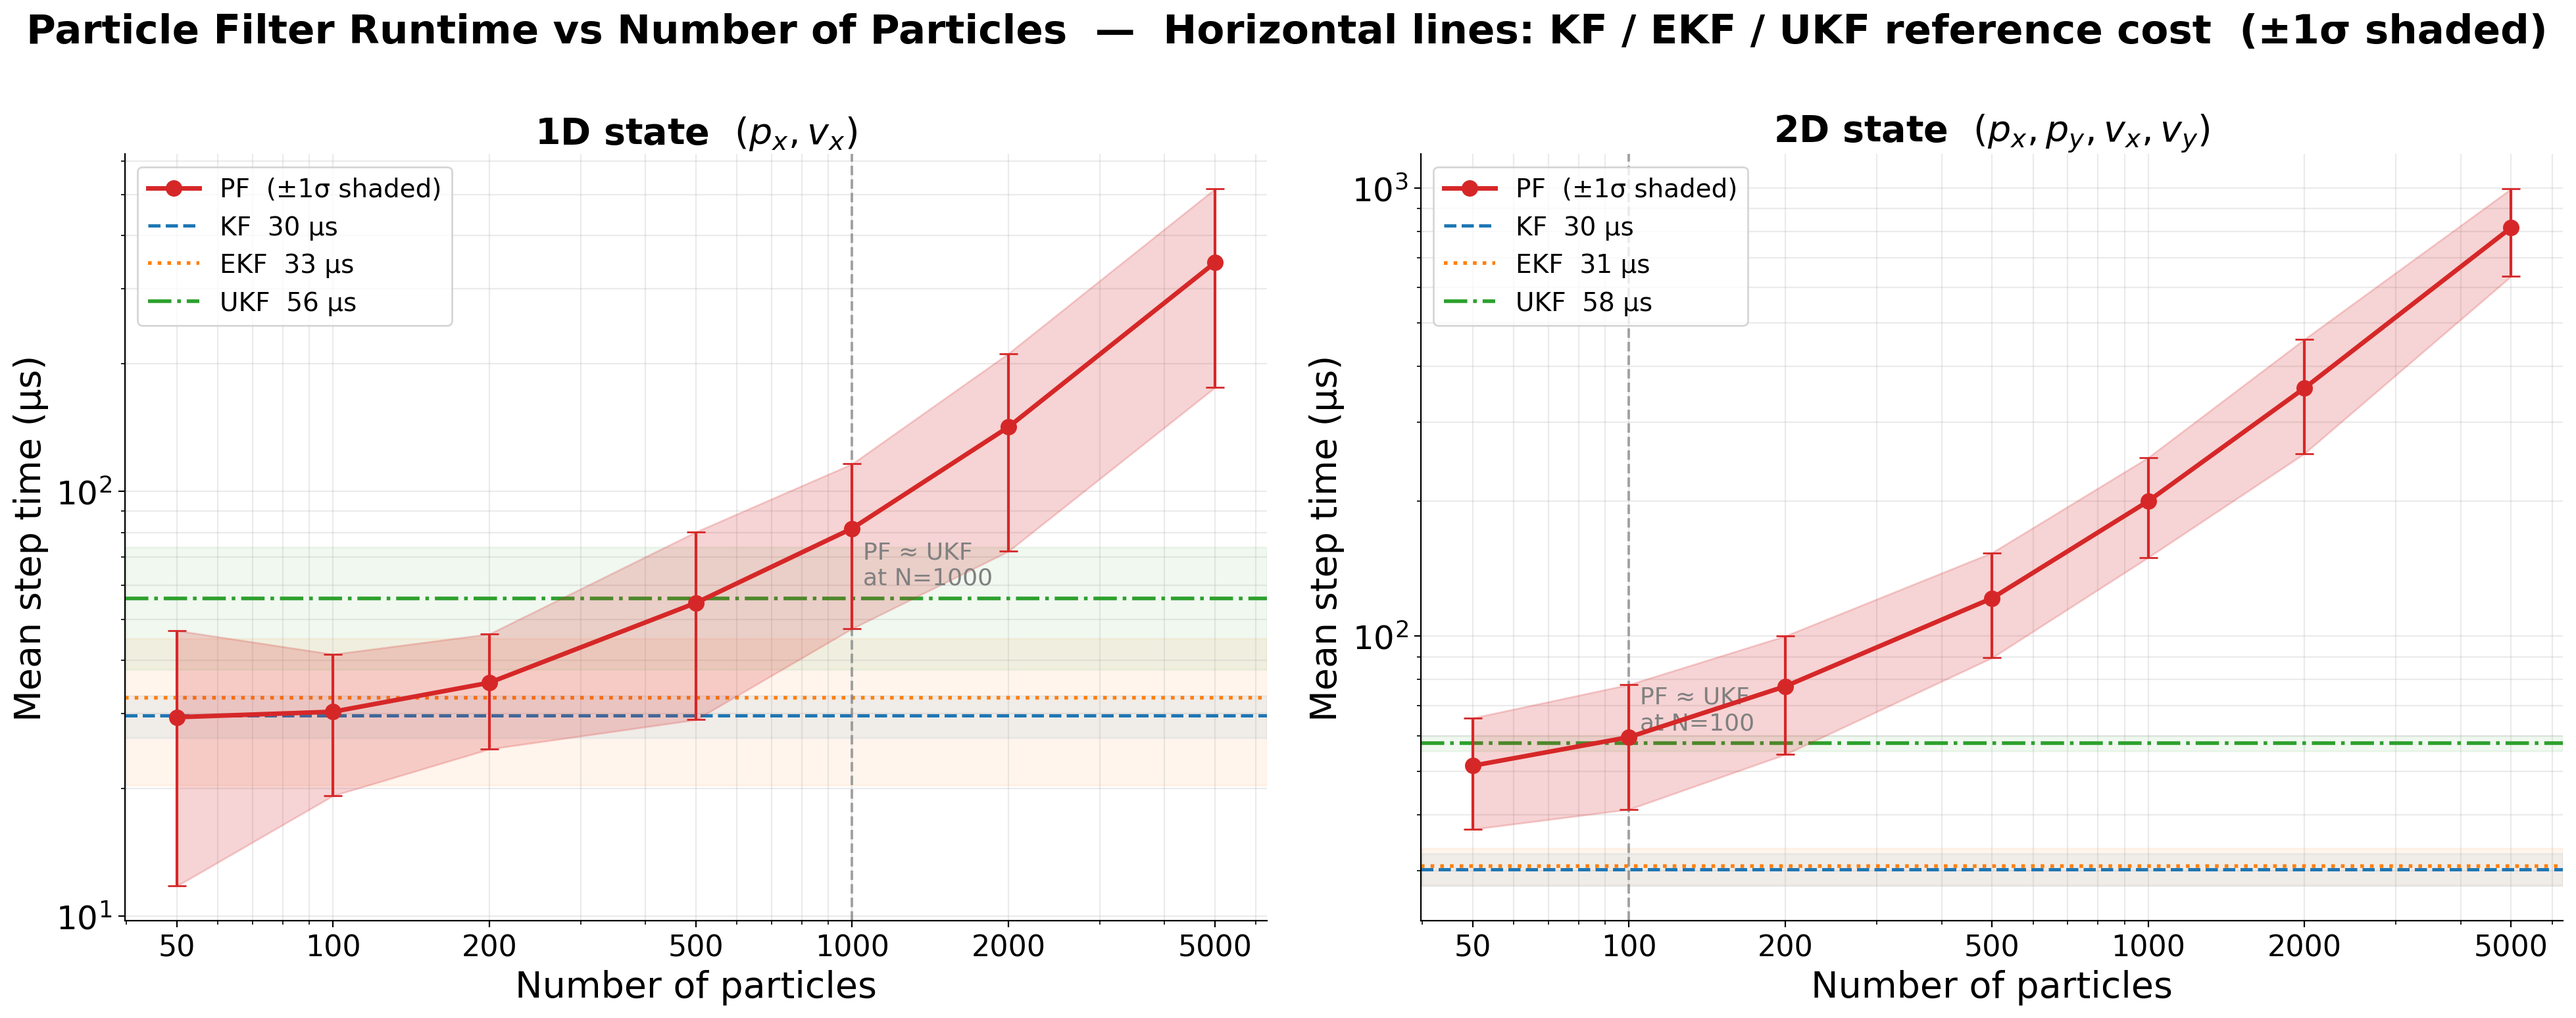
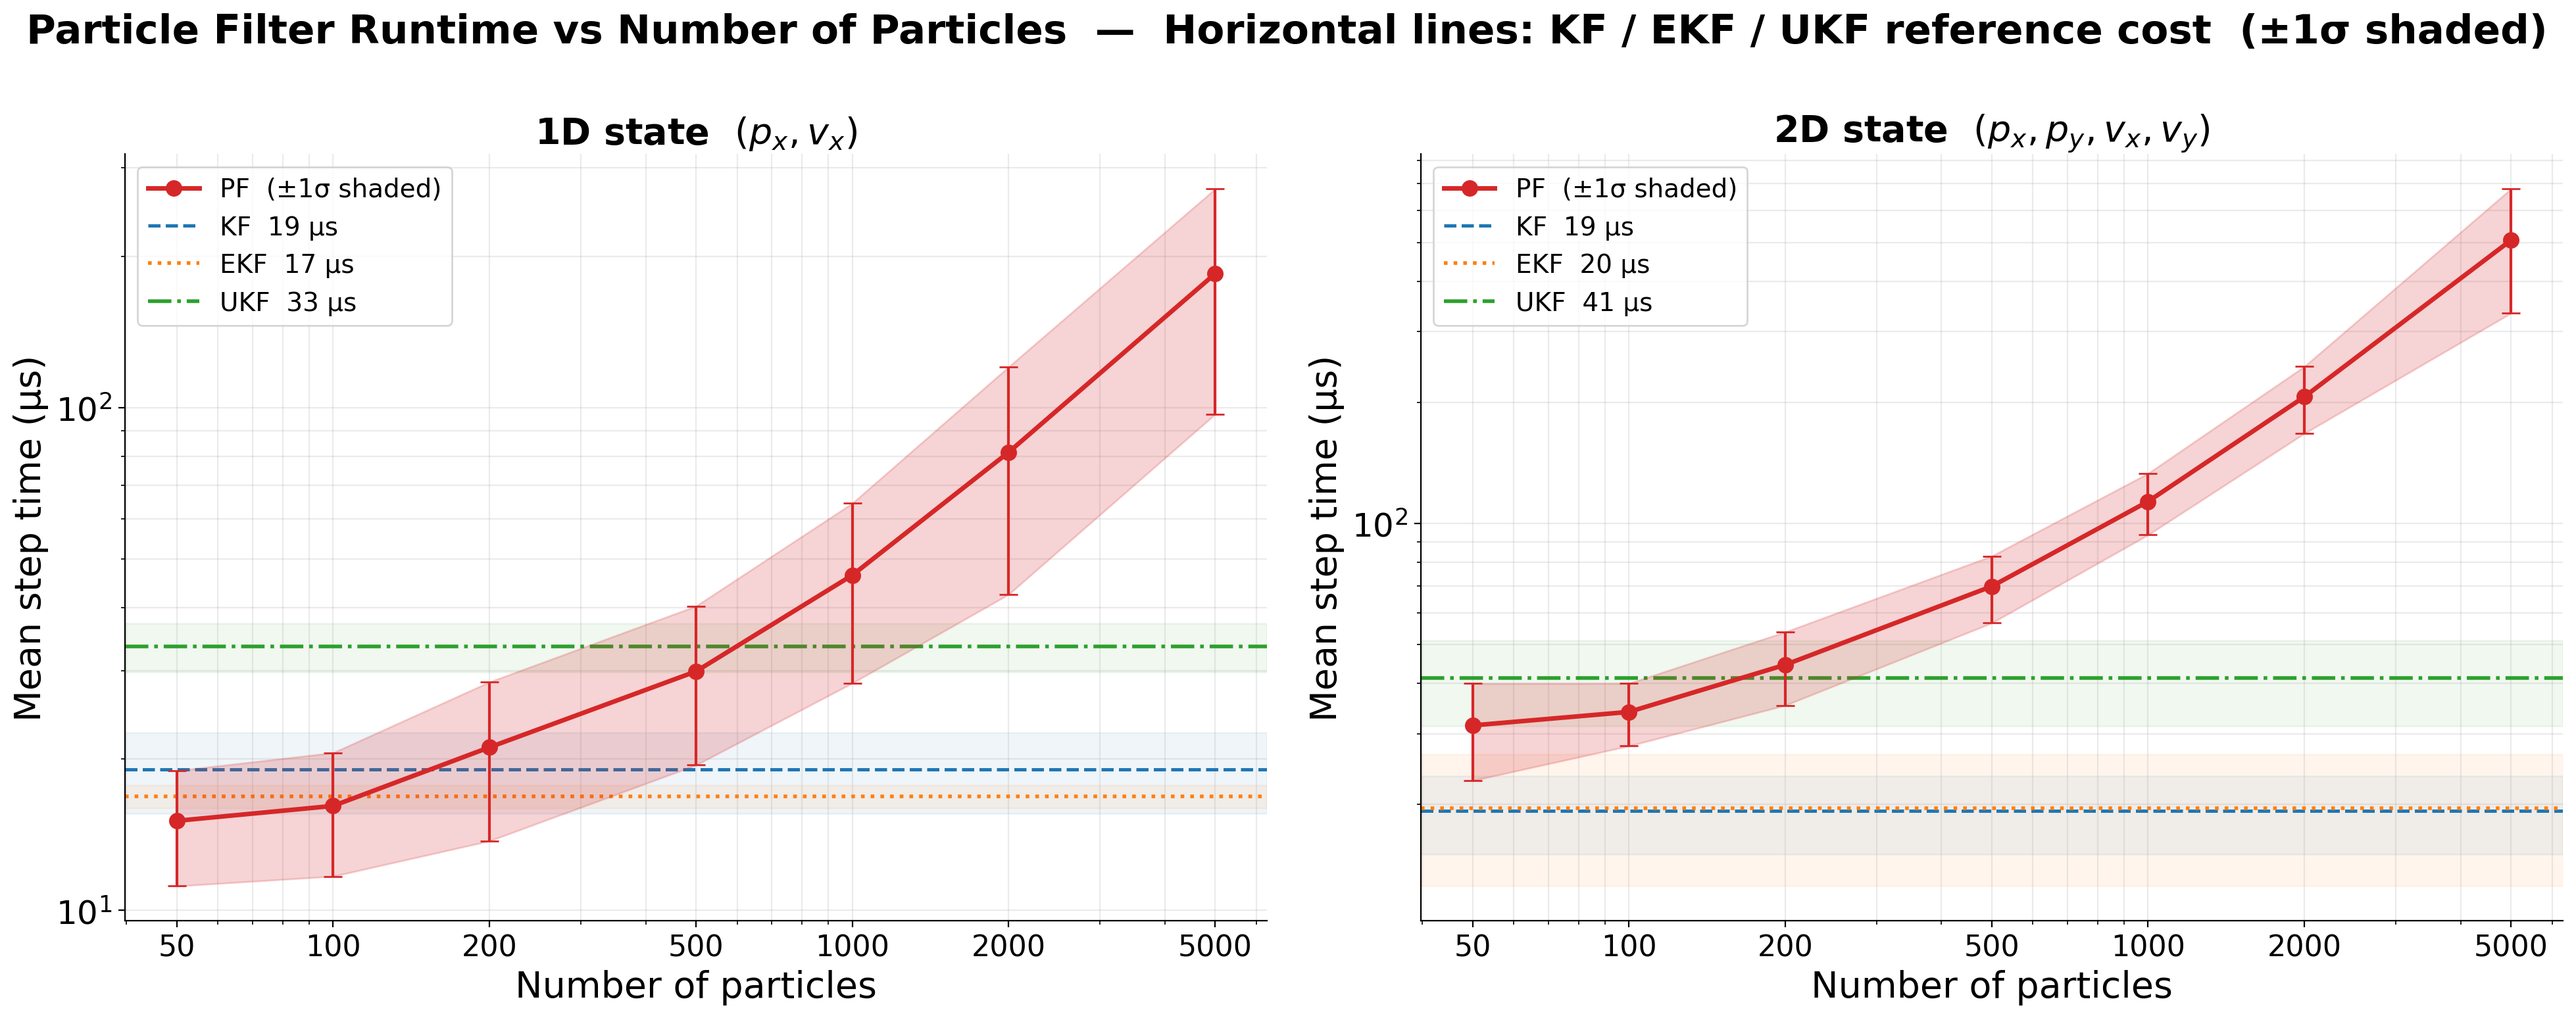
Remove PF/UKF crossover annotation from particle-count plot

diff --git a/_gen_runtime_benchmark.py b/_gen_runtime_benchmark.py
@@ -753,15 +753,7 @@ for ax, (title, dim_label, refs) in zip(axes, configs):
                    label=f'{fname}  {m:.0f} µs', zorder=2)
         ax.axhspan(m - s, m + s, color=COLORS[fname], alpha=0.07, zorder=1)
 
-    # Annotate crossover with UKF ─────────────────────────────────────────────
-    ukf_mean = refs['UKF'].mean()
-    crossover_candidates = np.where(means >= ukf_mean)[0]
-    if len(crossover_candidates):
-        ci = crossover_candidates[0]
-        ax.axvline(N_arr[ci], color='grey', ls='--', lw=1.4, alpha=0.7)
-        ax.text(N_arr[ci] * 1.05, ukf_mean * 1.05,
-                f'PF ≈ UKF\\nat N={N_arr[ci]}',
-                fontsize=13, color='grey', va='bottom')
+
 
     ax.set_xlabel('Number of particles', fontsize=FS)
     ax.set_ylabel('Mean step time (µs)', fontsize=FS)
